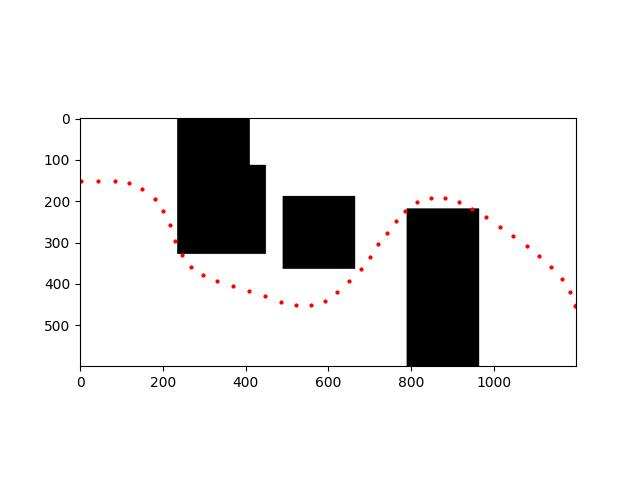
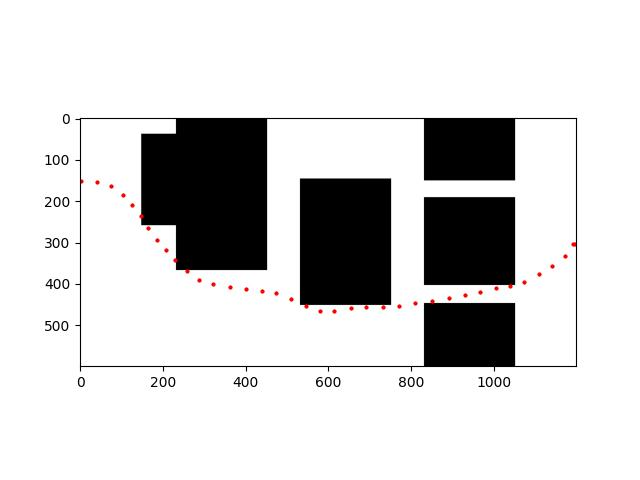
test day 2

diff --git a/src/robo1/scripts/viz_cv.py b/src/robo1/scripts/viz_cv.py
@@ -14,6 +14,7 @@ import cv2
 import rospkg
 from nav_msgs.msg import OccupancyGrid
 from std_msgs.msg import Header
+from std_msgs.msg import Float64MultiArray
 
 from nav_msgs.msg import OccupancyGrid, MapMetaData
 from geometry_msgs.msg import Pose, Point, Quaternion
@@ -85,7 +86,6 @@ for i, p in enumerate(data_raw - start_point):
 
 def handle_robot_pose(msg):
     global last_pose
-    marker_pub.publish(marker_array_msg)
 
     if last_pose is None or last_pose.x != msg.x or last_pose.y != msg.y or last_pose.theta != msg.theta:
         br = tf2_ros.TransformBroadcaster()
@@ -116,12 +116,44 @@ def handle_robot_pose(msg):
         
         last_pose = msg
 
-curr_odom_sub = rospy.Subscriber('/CURR_ODOM', Pose2D, handle_robot_pose)
+def obst_callback(msg):
+
+
+    x = msg.x
+    y = msg.y
+
+    marker = Marker()
+    marker.header.frame_id = "world_frame"
+    marker.header.stamp = rospy.Time.now()
+    marker.type = Marker.CYLINDER
+    marker.action = Marker.ADD
+    marker.pose.position.x = y / 100
+    marker.pose.position.y = -x / 100
+    marker.pose.position.z = 0.0
+    marker.pose.orientation.x = 0.0
+    marker.pose.orientation.y = 0.0
+    marker.pose.orientation.z = 0.0
+    marker.pose.orientation.w = 1.0
+    marker.scale.x = 0.1
+    marker.scale.y = 0.1
+    marker.scale.z = 0.3
+    marker.color.a = 1.0
+    marker.color.r = 1.0
+    marker.color.g = 0.6
+    marker.color.b = 0.0
+
+    # Publish the marker
+    marker_pub_cone.publish(marker)
+
 
 pub1 = rospy.Publisher('/map_disp', OccupancyGrid, queue_size=1, latch=True)
-marker_pub = rospy.Publisher('point_marker', MarkerArray, queue_size=10)
+marker_pub = rospy.Publisher('point_marker', MarkerArray, queue_size=1, latch=True)
+marker_pub_cone = rospy.Publisher('visualization_marker', Marker, queue_size=1, latch = True)
 
-while not rospy.is_shutdown():
-    pub1.publish(occupancy_grid)
-    marker_pub.publish(marker_array_msg)
-    rospy.sleep(1)
+obstacle_sub = rospy.Subscriber('/positions', Pose2D, obst_callback)
+curr_odom_sub = rospy.Subscriber('/CURR_ODOM', Pose2D, handle_robot_pose)
+
+pub1.publish(occupancy_grid)
+marker_pub.publish(marker_array_msg)
+
+rospy.spin()

diff --git a/src/robo1/scripts/execute_bot_smooth.py b/src/robo1/scripts/execute_bot_smooth.py
@@ -3,7 +3,7 @@
 import rospy
 from geometry_msgs.msg import Pose2D
 from std_msgs.msg import Int32
-from std_msgs.msg import Float64MultiArray
+from std_msgs.msg import Float32MultiArray
 import numpy as np
 import rospkg
 import csv
@@ -130,21 +130,22 @@ def global_planner(msg):
     need_heading = np.arctan2(target_pose[1] - msg.y , target_pose[0] - msg.x)
     angle_diff = (need_heading - curr_heading)
 
-    vel = 5 if np.cos(angle_diff) > 0 else 0
+    vel = 12 if np.cos(angle_diff) > 0 else 0
 
-    publish_this( vel , -0.7* angle_diff)
+    publish_this( vel , -1.0* angle_diff)
 
 
 ###############################################################################  
 # local planner
 def local_planner(msg):
+
     global init_local
     global detObs
     global targObs
     global global_planner
     global line_idx
 
-    odom = [msg.x,msg.y]
+    odom = [msg.x , msg.y , msg.theta]
 
     if init_local:
         detObs = obsticle(obst)
@@ -162,6 +163,7 @@ def local_planner(msg):
         need_heading = np.arctan2(forceNet[1],forceNet[0])
         curr_heading = msg.theta
         angle_diff = (need_heading - curr_heading)
+        print(angle_diff)
 
         vel = 10 if np.cos(angle_diff) > 0 else 0
         publish_this( vel , -1.5* angle_diff)
@@ -187,7 +189,7 @@ def obst_callback(msg):
     global global_planner
     global init_local
 
-    obst = msg
+    obst = [msg.x , msg.y, msg.theta]
     global_planner = False
     init_local = True
 
@@ -198,6 +200,6 @@ if __name__ == '__main__':
 
     curr_odom_sub = rospy.Subscriber('/CURR_ODOM', Pose2D, global_planner)
 
-    obstacle_sub = rospy.Subscriber('/positions', Float64MultiArray, obst_callback)
+    obstacle_sub = rospy.Subscriber('/positions', Pose2D, obst_callback)
 
     rospy.spin()
